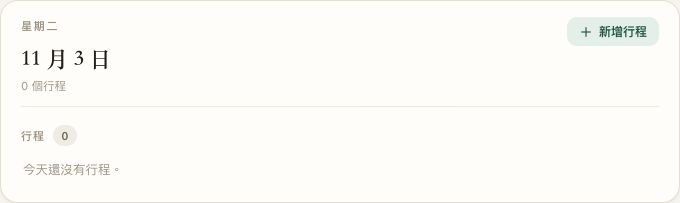
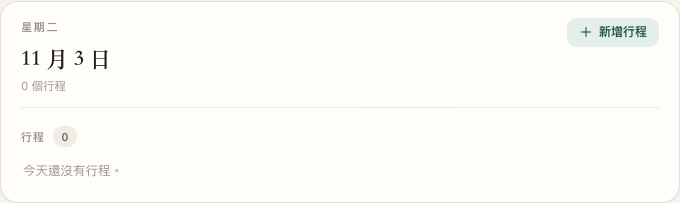
Release 0.1.4: equal-height home cards anchored to bottom

diff --git a/src/styles/app.css b/src/styles/app.css
@@ -3903,20 +3903,37 @@ html[data-platform="windows"] .main__drag {
 
 /* 主頁下方：目前安排 + 當日明細 */
 .home__clock {
-  flex: none;
-  padding: 5vh 0 4vh;
+  flex: 1;
+  display: flex;
+  flex-direction: column;
+  align-items: center;
+  justify-content: center;
+  padding: 3vh 0 4vh;
 }
 
 .home__panels {
   display: grid;
   grid-template-columns: minmax(250px, 320px) minmax(0, 1fr);
   gap: 16px;
-  align-items: start;
+  align-items: stretch;
+  margin-top: auto;
   padding-bottom: 8px;
+}
+
+.home__panels > * {
+  height: 100%;
+}
+
+.home__panels .day-detail {
+  display: flex;
+  flex-direction: column;
 }
 
 .home-now {
   position: relative;
+  display: flex;
+  flex-direction: column;
+  justify-content: center;
   padding: 18px 20px 20px;
   border-radius: var(--radius-lg);
   border: 1px solid var(--border);

diff --git a/src-tauri/src/update.rs b/src-tauri/src/update.rs
@@ -179,7 +179,7 @@ mod tests {
     #[test]
     #[ignore = "requires network and an existing GitHub release"]
     fn live_github_check() {
-        let result = check("0.1.3").expect("GitHub check failed");
+        let result = check("0.1.4").expect("GitHub check failed");
         eprintln!("{result:?}");
         assert!(!result.source.is_empty());
     }

diff --git a/README.md b/README.md
@@ -195,7 +195,7 @@ npm run build
 # 互動檢查（需要 dev server）：主頁時鐘、快速新增、看板拖曳、
 # modal 定位、主題切換與持久化
 npm run dev          # 另開一個終端
-npm run shots        # 65 checks（需要本機 Chrome）
+npm run shots        # 68 checks（需要本機 Chrome）
 ```
 
 實機驗證方式：以 `RECIPROCAL_DATA_DIR` 啟動建置後的 `.app`，確認 SQLite 建表與種子資料寫入，並從日誌確認 WebView 載入後成功呼叫 `load_app`（`ui ready: 3 habits, 8 logs, 3 tasks`）。
